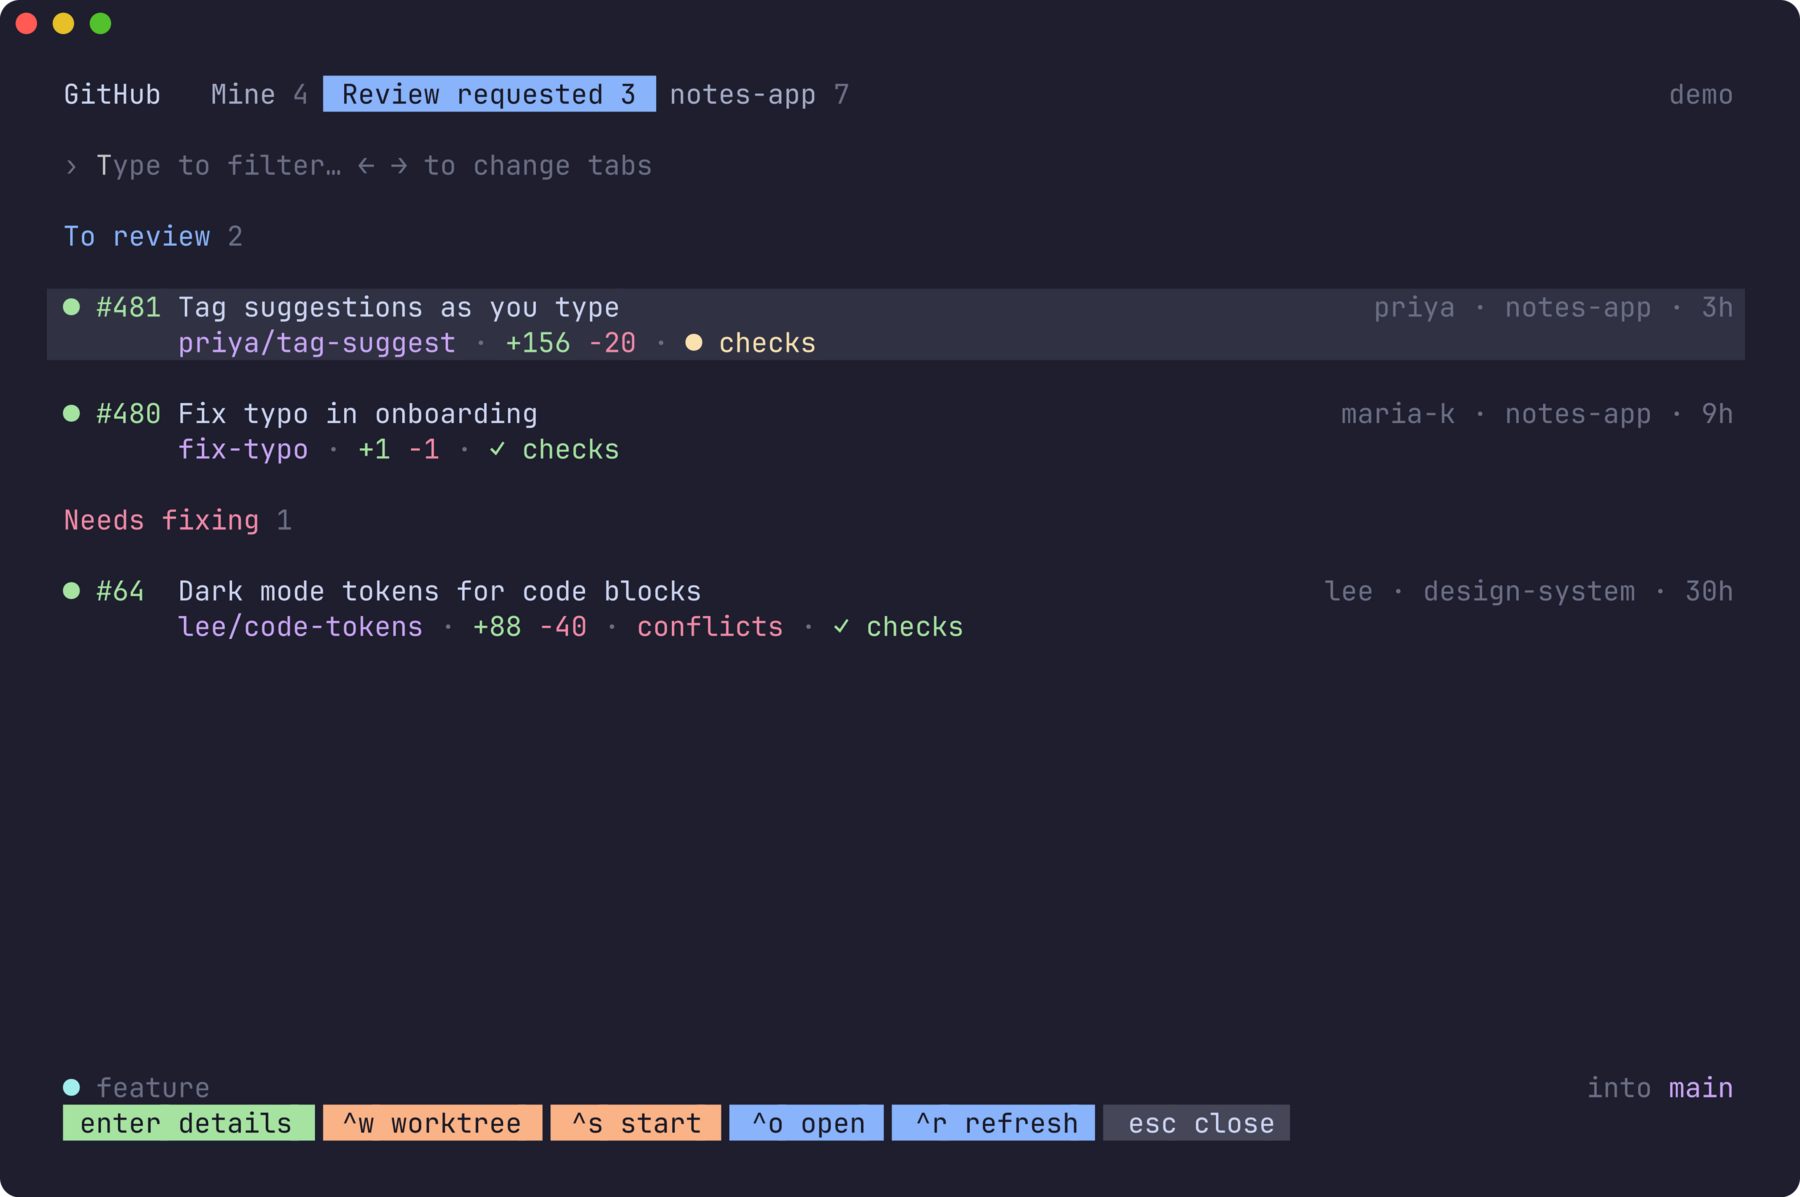
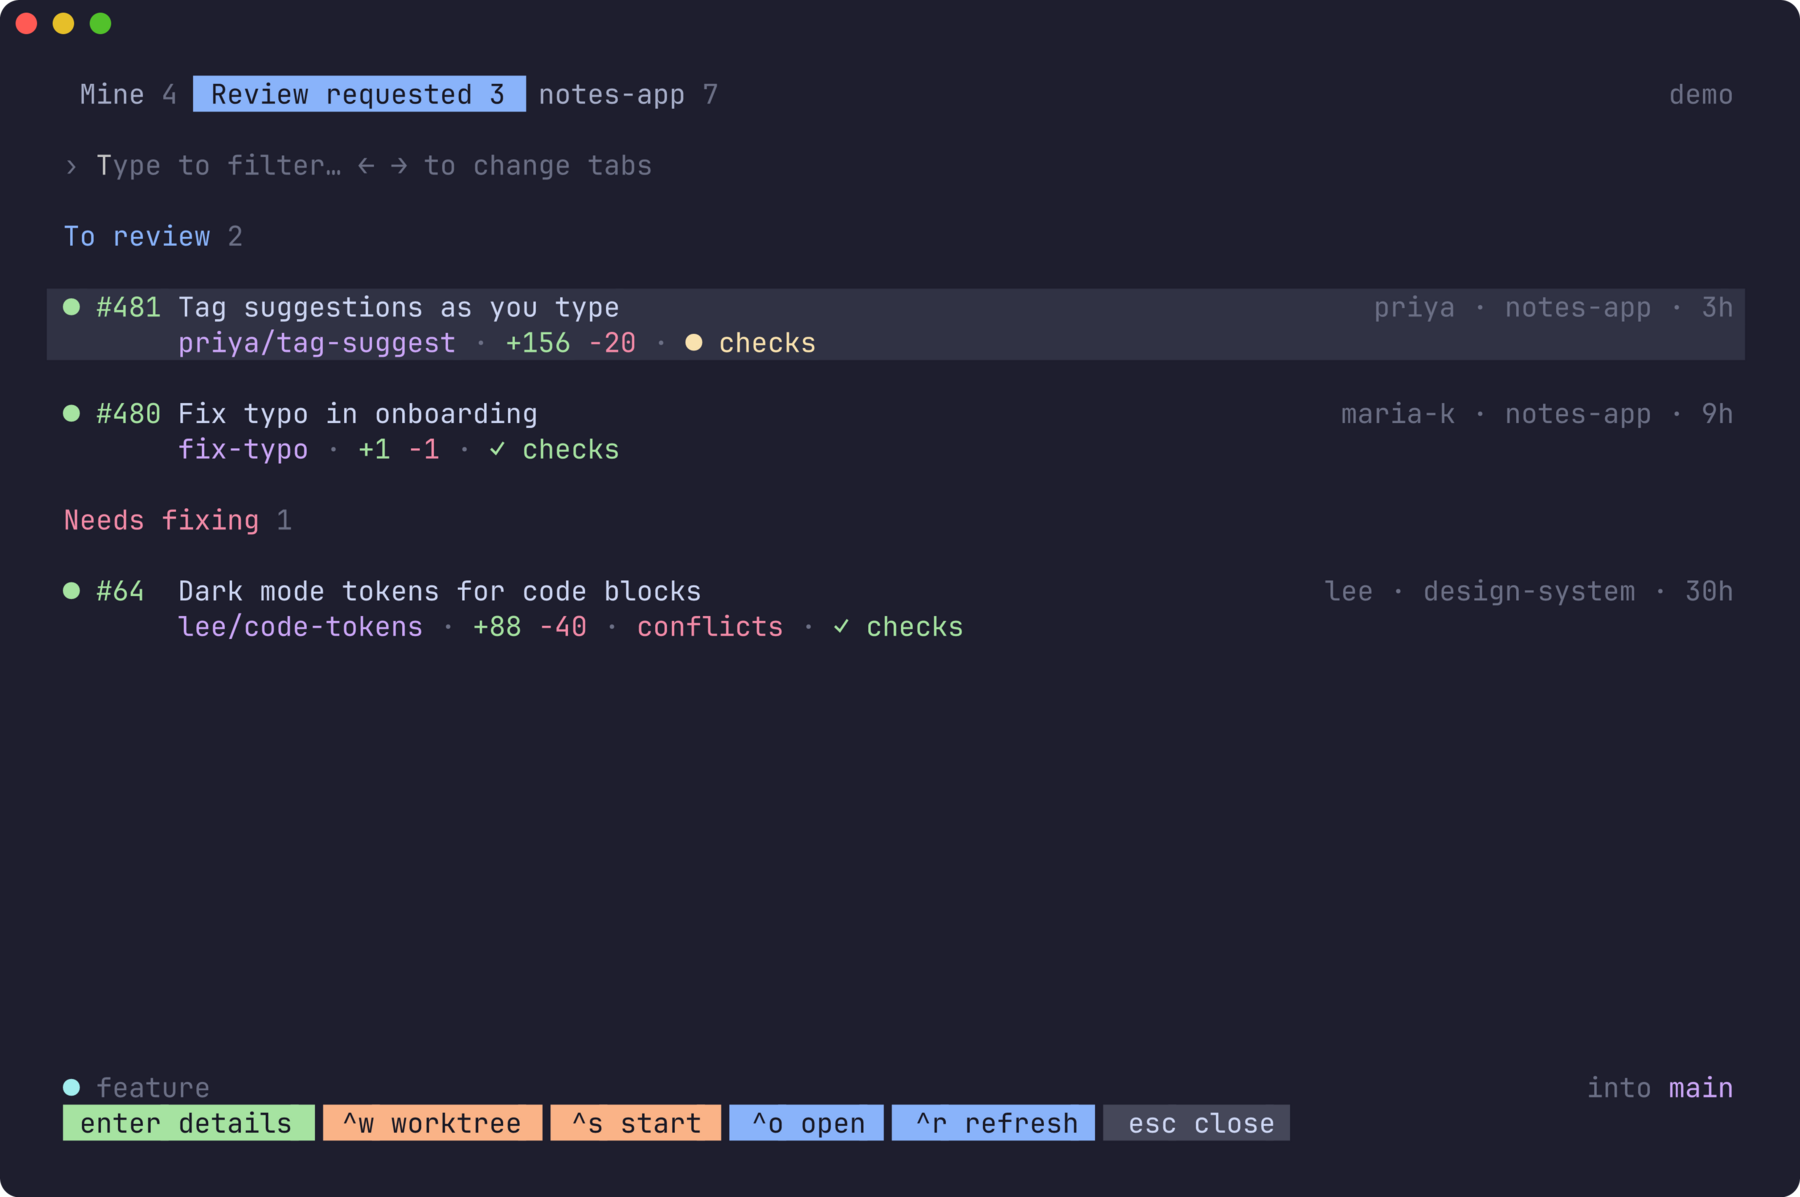
fix: the tabs don't repeat the popup's name
herdr draws "GitHub" on the popup's frame; the tab bar said it again.

Changed region(s): [[0.0311, 0.0618, 0.4667, 0.0927]]

diff --git a/tui_test.go b/tui_test.go
@@ -16,7 +16,7 @@ func plain(m model) string { return stripStyles(m.View()) }
 func TestTabsListAndGroup(t *testing.T) {
 	m := demoModel(t, tabMine)
 	v := plain(m)
-	for _, want := range []string{"GitHub", "Mine 4", "notes-app · 30m", "sync-server · 5h", "#482", "Offline edits",
+	for _, want := range []string{"Mine 4", "notes-app · 30m", "sync-server · 5h", "#482", "Offline edits",
 		"sam/offline-conflicts · +318 −74 · approved · ✓ checks · worktree", "✗ checks", "changes requested"} {
 		if !strings.Contains(v, want) {
 			t.Fatalf("mine tab lacks %q:\n%s", want, v)
@@ -132,16 +132,16 @@ func TestGroupsAreWhoseMoveItIs(t *testing.T) {
 	}
 }
 
-// The first line names the popup and the tabs; too narrow for that, the name
-// goes, then the labels shorten, and a click still lands on the tab drawn.
+// The first line is the tabs (the popup's name is on its frame); too narrow,
+// the labels shorten, and a click still lands on the tab drawn.
 func TestTabBarFitsTheWidth(t *testing.T) {
 	for width := 70; width >= 26; width-- {
 		m := demoModel(t, tabReview)
 		m.width = width
 		line, cells := m.tabBar()
 		bar := stripStyles(line)
-		// At their shortest the tabs are 31 cells; under that the line is cut.
-		if got := ansi.StringWidth(bar); got > max(width, 31) || ansi.StringWidth(strings.Split(plain(m), "\n")[0]) > width {
+		// At their shortest the tabs are 32 cells; under that the line is cut.
+		if got := ansi.StringWidth(bar); got > max(width, 32) || ansi.StringWidth(strings.Split(plain(m), "\n")[0]) > width {
 			t.Fatalf("at %d cells the tabs are %d wide: %q", width, got, bar)
 		}
 		for _, c := range cells {
@@ -155,7 +155,7 @@ func TestTabBarFitsTheWidth(t *testing.T) {
 		}
 	}
 	wide := plain(demoModel(t, tabMine))
-	if !strings.HasPrefix(wide, " GitHub   Mine 4  Review requested 3  notes-app 7 ") {
+	if !strings.HasPrefix(wide, "  Mine 4  Review requested 3  notes-app 7 ") {
 		t.Fatalf("with room for it all:\n%s", wide)
 	}
 }

diff --git a/groups.go b/groups.go
@@ -131,21 +131,19 @@ func (m model) tabName(t tab, short bool) string {
 	return m.repo.Name
 }
 
-// tabBar is the popup's first line: its name, then the tabs, each with how
-// many pull requests it has (and a + while more are on their way), the one
-// shown as a pill. Too wide for the popup, the name goes, then the labels
+// tabBar is the popup's first line: the tabs, each with how many pull
+// requests it has (and a + while more are on their way), the one shown as a
+// pill, in line with the keys' pills along the bottom. The popup's name is
+// on its frame, which herdr draws. Too wide for the popup, the labels
 // shorten. On a PR's screen no tab is the one shown: they're the way back.
 func (m model) tabBar() (string, []tabCell) {
 	cells := []tabCell{{tab: tabMine}, {tab: tabReview}, {tab: tabRepo}}
 	var line string
-	for _, form := range []struct{ name, short bool }{{true, false}, {false, false}, {false, true}} {
-		line = ""
-		if form.name {
-			line = styleHeader.Render(" GitHub ") + " "
-		}
+	for _, short := range []bool{false, true} {
+		line = " "
 		x := lipgloss.Width(line)
 		for i, c := range cells {
-			label, n := m.tabName(c.tab, form.short), ""
+			label, n := m.tabName(c.tab, short), ""
 			if m.loaded[c.tab] && (c.tab != tabRepo || m.repo != nil) {
 				n = " " + strconv.Itoa(len(m.prs[c.tab]))
 				if m.paging[c.tab] {
